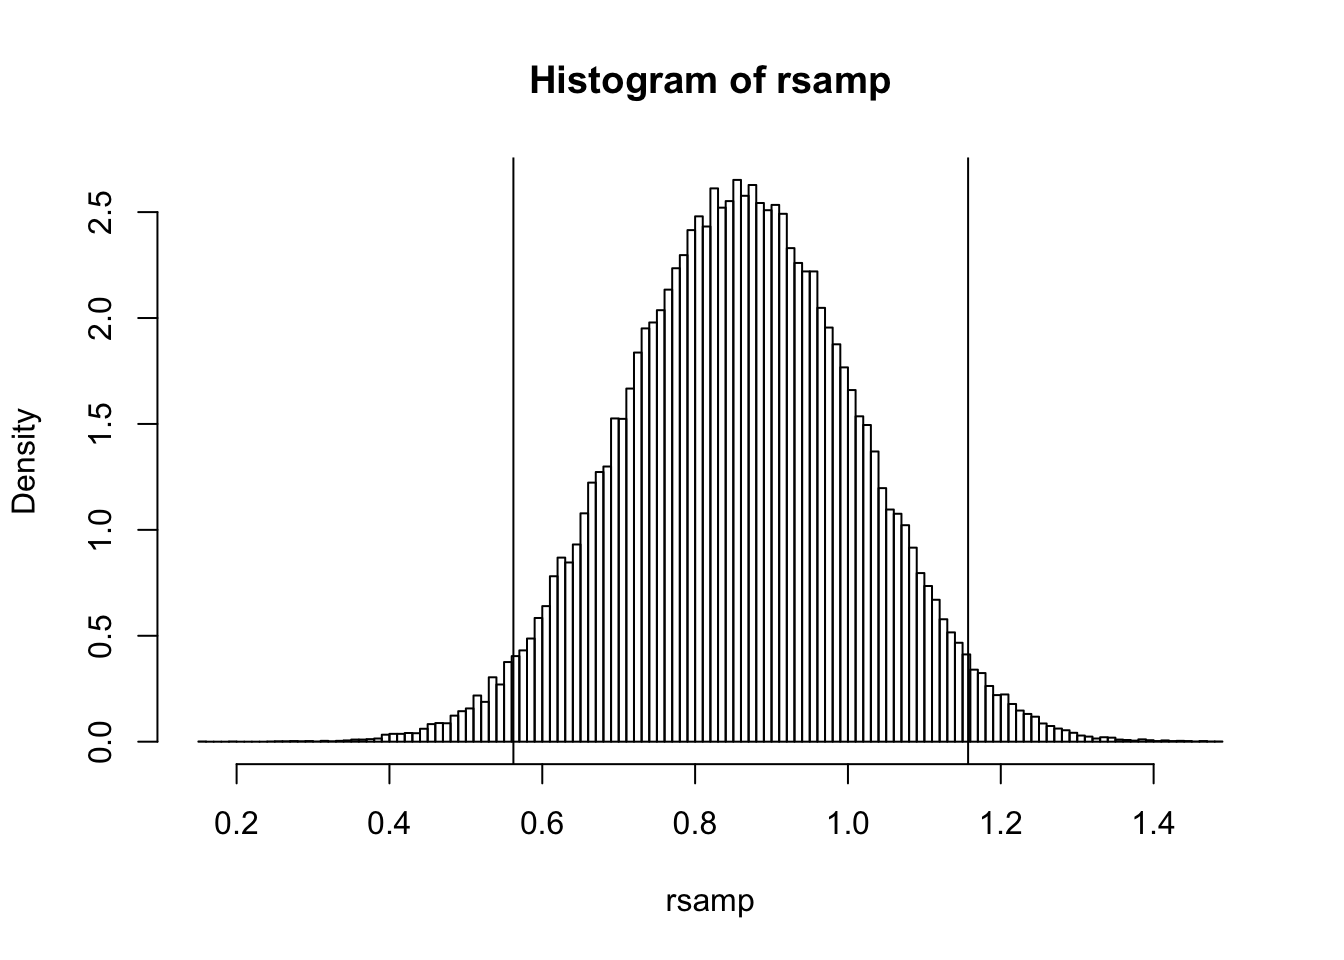
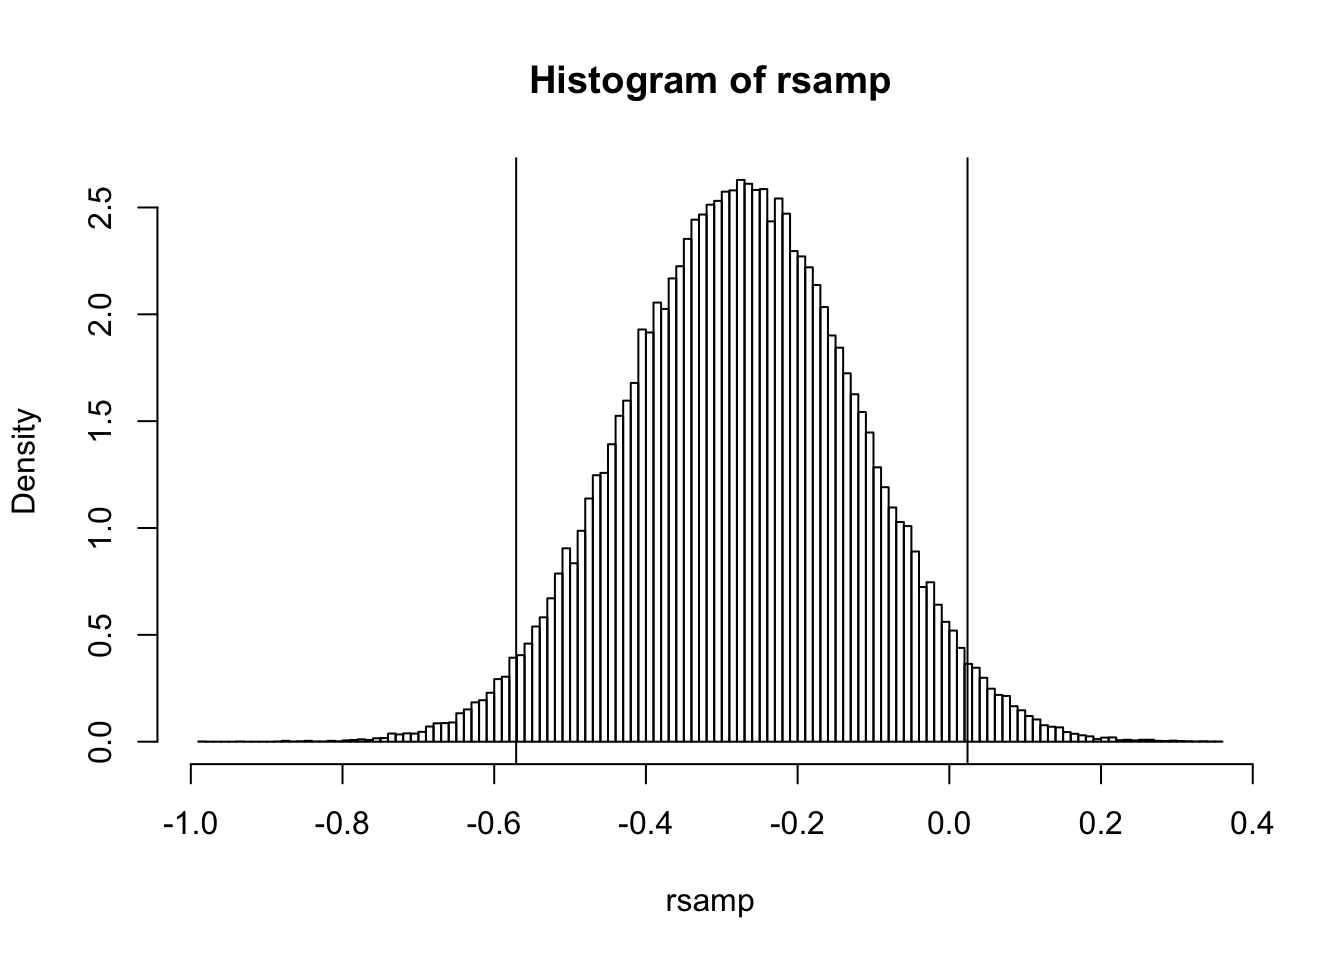
Build site.

diff --git a/docs/first-analysis.html b/docs/first-analysis.html
@@ -439,7 +439,7 @@ div.section {
 <div class="tab-content">
 <div id="summary" class="tab-pane fade in active">
 <p>
-<strong>Last updated:</strong> 2019-06-13
+<strong>Last updated:</strong> 2019-06-15
 </p>
 <p>
 <strong>Checks:</strong> <span class="glyphicon glyphicon-ok text-success" aria-hidden="true"></span> 6 <span class="glyphicon glyphicon-exclamation-sign text-danger" aria-hidden="true"></span> 0
@@ -518,10 +518,10 @@ This reproducible <a href="http://rmarkdown.rstudio.com">R Markdown</a> analysis
 <div class="panel panel-default">
 <div class="panel-heading">
 <p class="panel-title">
-<a data-toggle="collapse" data-parent="#workflowr-checks" href="#strongRepositoryversionstrongahrefhttpsgithubcomsurbutnejmtree76f5c200a886b83c7c6537448aa856718d0d9ff0targetblank76f5c20a"> <span class="glyphicon glyphicon-ok text-success" aria-hidden="true"></span> <strong>Repository version:</strong> <a href="https://github.com/surbut/nejm/tree/76f5c200a886b83c7c6537448aa856718d0d9ff0" target="_blank">76f5c20</a> </a>
+<a data-toggle="collapse" data-parent="#workflowr-checks" href="#strongRepositoryversionstrongahrefhttpsgithubcomsurbutnejmtree675b8e0dea8dd548924a84fd2fb7fede397796e1targetblank675b8e0a"> <span class="glyphicon glyphicon-ok text-success" aria-hidden="true"></span> <strong>Repository version:</strong> <a href="https://github.com/surbut/nejm/tree/675b8e0dea8dd548924a84fd2fb7fede397796e1" target="_blank">675b8e0</a> </a>
 </p>
 </div>
[2 lines of base64/hex data omitted]
 <div class="panel-body">
 <p>
 Great! You are using Git for version control. Tracking code development and connecting the code version to the results is critical for reproducibility. The version displayed above was the version of the Git repository at the time these results were generated. <br><br> Note that you need to be careful to ensure that all relevant files for the analysis have been committed to Git prior to generating the results (you can use <code>wflow_publish</code> or <code>wflow_git_commit</code>). workflowr only checks the R Markdown file, but you know if there are other scripts or data files that it depends on. Below is the status of the Git repository when the results were generated:
@@ -569,6 +569,40 @@ Message
 </tr>
 </thead>
 <tbody>
+<tr>
+<td>
+Rmd
+</td>
+<td>
+<a href="https://github.com/surbut/nejm/blob/675b8e0dea8dd548924a84fd2fb7fede397796e1/analysis/first-analysis.Rmd" target="_blank">675b8e0</a>
+</td>
+<td>
+Sarah Urbut
+</td>
+<td>
+2019-06-15
+</td>
+<td>
+wflow_publish(“analysis/first-analysis.Rmd”)
+</td>
+</tr>
+<tr>
+<td>
+html
+</td>
+<td>
+<a href="https://rawcdn.githack.com/surbut/nejm/c521b99c5861d8aff06e3cad9d5f5b45250e17f0/docs/first-analysis.html" target="_blank">c521b99</a>
+</td>
+<td>
+Sarah Urbut
+</td>
+<td>
+2019-06-13
+</td>
+<td>
+Build site.
+</td>
+</tr>
 <tr>
 <td>
 Rmd
@@ -901,9 +935,9 @@ Publish analysis files
 </div>
 <div id="introduction" class="section level2">
 <h2>Introduction</h2>
-<p>In this document, we aim to run a post-hoc Bayesian analysis of the results in <a href="https://www.nejm.org/doi/full/10.1056/NEJMoa1808788">Thiele et al</a>. In table 3 of this paper, they show that the relative risk of death from any cause at 1 year is 0.88 (0.76-1.01) for Culprit only vs Multivessel PCI. This is equivalent to a log Odds ratio of <span class="math display">\[log \frac{0.88}{0.12}\approx 2\]</span>. A Bayesian analysis with an improper (Jeffrey’s) prior on <span class="math inline">\(\theta\)</span> would result in acredible interval identical to the confidence interval with a standard error equivalent to 0.15 from the formula below.</p>
+<p>In this document, we aim to run a post-hoc Bayesian analysis of the results in <a href="https://www.nejm.org/doi/full/10.1056/NEJMoa1808788">Thiele et al</a>. In table 3 of this paper, they show that the relative risk of death from any cause at 1 year is 0.88 (0.76-1.01) for Culprit only vs Multivessel PCI. This is equivalent to a log Odds ratio of <span class="math display">\[log \frac{[172/172]}{[194/147]}/ \approx -0.27\]</span>. A Bayesian analysis with an improper (Jeffrey’s) prior on <span class="math inline">\(\theta\)</span> would result in acredible interval identical to the confidence interval with a standard error equivalent to 0.15 from the formula below.</p>
 <p>We know that the <span class="math display">\[SE(logθ) = \sqrt{(1/n_{11} + 1/n_{12} + 1/n_{21} + 1/n_{22})}.\]</span></p>
-<p>If we assume a generous, perhaps ‘ridiculous’ prior on <span class="math inline">\(\theta=OR\)</span> of <span class="math inline">\(\theta \sim N(0,1)\)</span>, then we would arrive a posterior estimate of <span class="math display">\[\theta|\hat{\theta},\hat{s^{2}},\sigma^2\]</span> using simple conjugate normal with <span class="math inline">\(\theta \sim N(0,1)\)</span> and data <span class="math inline">\(\hat{\theta}\)</span>=0.88, <span class="math inline">\(\hat{s}\)</span>=0.15.</p>
+<p>If we assume a generous, perhaps ‘ridiculous’ prior on <span class="math inline">\(\theta=OR\)</span> of <span class="math inline">\(\theta \sim N(0,1)\)</span>, then we would arrive a posterior estimate of <span class="math display">\[\theta|\hat{\theta},\hat{s^{2}},\sigma^2\]</span> using simple conjugate normal with <span class="math inline">\(\theta \sim N(0,1)\)</span> and data <span class="math inline">\(\hat{\theta}\)</span>=-0.28, <span class="math inline">\(\hat{s}\)</span>=0.15.</p>
 <p><span class="math display">\[\tilde{\theta}\sim{\frac {\sigma _{0}^{2}}{ \sigma ^{2}+\sigma _{0}^{2}} \hat {\theta} +  {\frac {\sigma _{0}^{2}}{ \sigma ^{2}+\sigma _{0}^{2}} \theta_{0}}}\]</span></p>
 <p><span class="math display">\[\tilde{\sigma^2}\sim ( \frac {1}{ \sigma ^{2}} + \frac{1}{\sigma _{0}^{2}})^{-1}\]</span></p>
 <pre class="r"><code>##SE log OR
@@ -915,7 +949,7 @@ post_mean=function(priormean,priorsd,datamean,datase){
 post_var=function(priorsd,datase){
   1/(1/datase^2+1/priorsd^2)}
 
-pm=post_mean(priormean = 0,priorsd = 1,datamean = 0.88,datase = dataSE)
+pm=post_mean(priormean = 0,priorsd = 1,datamean = -0.28,datase = dataSE)
 pv=post_var(priorsd = 1,datase = dataSE)</code></pre>
 <p>We can sample from this distribution and plot the 95% Credible intervals:</p>
 <pre class="r"><code>rsamp=rnorm(100000,mean=pm,sd=sqrt(pv))
@@ -974,19 +1008,20 @@ Sarah Urbut
 
 sdlik=sqrt(1+dataSE^2)
 
-optimistic=0.90*dnorm(0.88,mean = 0,sd=sdlik)/(0.90*dnorm(0.88,mean = 0,sd=sdlik)+0.10*dnorm(0.88,mean = 0,sd=dataSE))
+optimistic=0.90*dnorm(-0.28,mean = 0,sd=sdlik)/(0.90*dnorm(-0.28,mean = 0,sd=sdlik)+0.10*dnorm(-0.28,mean = 0,sd=dataSE))
 
-moderate=0.50*dnorm(0.88,mean = 0,sd=sdlik)/(0.50*dnorm(0.88,mean = 0,sd=sdlik)+0.50*dnorm(0.88,mean = 0,sd=dataSE))
+moderate=0.50*dnorm(-0.28,mean = 0,sd=sdlik)/(0.50*dnorm(-0.28,mean = 0,sd=sdlik)+0.50*dnorm(-0.28,mean = 0,sd=dataSE))
 
-skeptical=0.10*dnorm(0.88,mean = 0,sd=sdlik)/sum(0.10*dnorm(0.88,mean = 0,sd=sdlik)+0.90*dnorm(0.88,mean = 0,sd=dataSE))</code></pre>
+skeptical=0.10*dnorm(-0.28,mean = 0,sd=sdlik)/sum(0.10*dnorm(-0.28,mean = 0,sd=sdlik)+0.90*dnorm(-0.28,mean = 0,sd=dataSE))</code></pre>
 <p>Then, we can run simulations according to these componenets to determine the density</p>
 <p>FOr the optimistic simulation:</p>
-<pre class="r"><code>nsim=100000
+<pre class="r"><code>dm=-0.28
+nsim=100000
 sims=rbinom(n=nsim,1,prob=0.5)
 optim=NULL
 for(i in 1:nsim){
   a=rbinom(n=1,1,prob=optimistic)
-  pm=post_mean(priormean=0,priorsd=a*1,datamean=0.88,datase=dataSE)
+  pm=post_mean(priormean=0,priorsd=a*1,datamean=dm,datase=dataSE)
   ps=sqrt(post_var(priorsd = a*1,datase = dataSE))
   b=rnorm(1,mean=pm,sd=sqrt(ps))
  optim[i]=b
@@ -1034,10 +1069,10 @@ Sarah Urbut
 <pre class="r"><code>moder=NULL
 for(i in 1:nsim){
   a=rbinom(n=1,1,prob=moderate)
-  pm=post_mean(priormean=0,priorsd=a*1,datamean=0.88,datase=dataSE)
+  pm=post_mean(priormean=0,priorsd=a*1,datamean=dm,datase=dataSE)
   ps=sqrt(post_var(priorsd = a*1,datase = dataSE))
   b=rnorm(1,mean=pm,sd=sqrt(ps))
- moder[i]=b
+  moder[i]=b
 }
 
 hist(moder,nclass=100)</code></pre>
@@ -1082,7 +1117,7 @@ Sarah Urbut
 <pre class="r"><code>skept=NULL
 for(i in 1:nsim){
   a=rbinom(n=1,1,prob=skeptical)
-  pm=post_mean(priormean=0,priorsd=a*1,datamean=0.88,datase=dataSE)
+  pm=post_mean(priormean=0,priorsd=a*1,datamean=dm,datase=dataSE)
   ps=sqrt(post_var(priorsd = a*1,datase = dataSE))
   b=rnorm(1,mean=pm,sd=sqrt(ps))
  skept[i]=b
